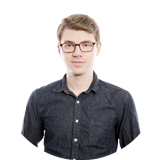
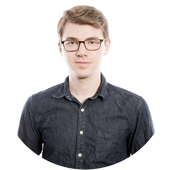
Unlinked front page from Skeleton

diff --git a/stylesheets/style_minimalist.css b/stylesheets/style_minimalist.css
@@ -1,11 +1,17 @@
 /* ========== Global Formatting ========== */
 
+/*#main-container {
+  position: relative;
+}*/
+
 body {
   background: #ffffff;
 }
 
 .container {
+  float: left;
   opacity: 0;
+  width: 70%;
   margin-left: 6.2em;
   margin-bottom: 5em;
 }
@@ -130,11 +136,8 @@ header a {
 /* ========== Nav ========== */
 
 nav {
-  position: fixed;
+  float: right;
   margin-right: 9.5em;
-  left: auto;
-  right: 0;
-  top: 16em;
   z-index: 2000;
 }
 
@@ -166,6 +169,7 @@ nav i:hover {
   position: relative;
   width: 100%;
   overflow: hidden;
+  margin-bottom: 1em;
 }
 
 .home-header {
@@ -201,8 +205,8 @@ nav i:hover {
 
 .headshot {
   position: absolute;
-  top: 7%;
-  left: 71.3%;
+  top: 3%;
+  left: 71.2%;
 }
 
 .grey_box {
@@ -218,7 +222,6 @@ nav i:hover {
 /* ========== Home ========== */
 
 .articles {
-  padding-top: 2%;
   margin-left: 6%;
   width: 90%;
 }
@@ -330,6 +333,7 @@ nav i:hover {
 #footer {
   margin-bottom: 30px;
   height: 100%;
+  color: #474747;
 }
 
 #footer div {

diff --git a/index.html b/index.html
@@ -11,8 +11,6 @@
 
 <!-- CSS -->
 <link rel="stylesheet" type="text/css" target="_blank" href="stylesheets/base.css" />
-<link rel="stylesheet" type="text/css" target="_blank" href="stylesheets/skeleton.css" />
-<link rel="stylesheet" type="text/css" target="_blank" href="stylesheets/layout.css" />
 <link target="_blank" href="http://netdna.bootstrapcdn.com/font-awesome/4.0.3/css/font-awesome.css" rel="stylesheet">
 <link rel="stylesheet" type="text/css" target="_blank" href="stylesheets/style_minimalist.css" />
 

diff --git a/javascripts/scripts_minimalist.js b/javascripts/scripts_minimalist.js
@@ -107,8 +107,8 @@ var UI = Backbone.View.extend({
   initialize: function(attributes){
     this.render({
       heading: new UI.Heading(),
-      nav:     new UI.Nav(),
       body:    new UI.Body(),
+      nav:     new UI.Nav(),
       footer:  new UI.Footer()
     });
 
